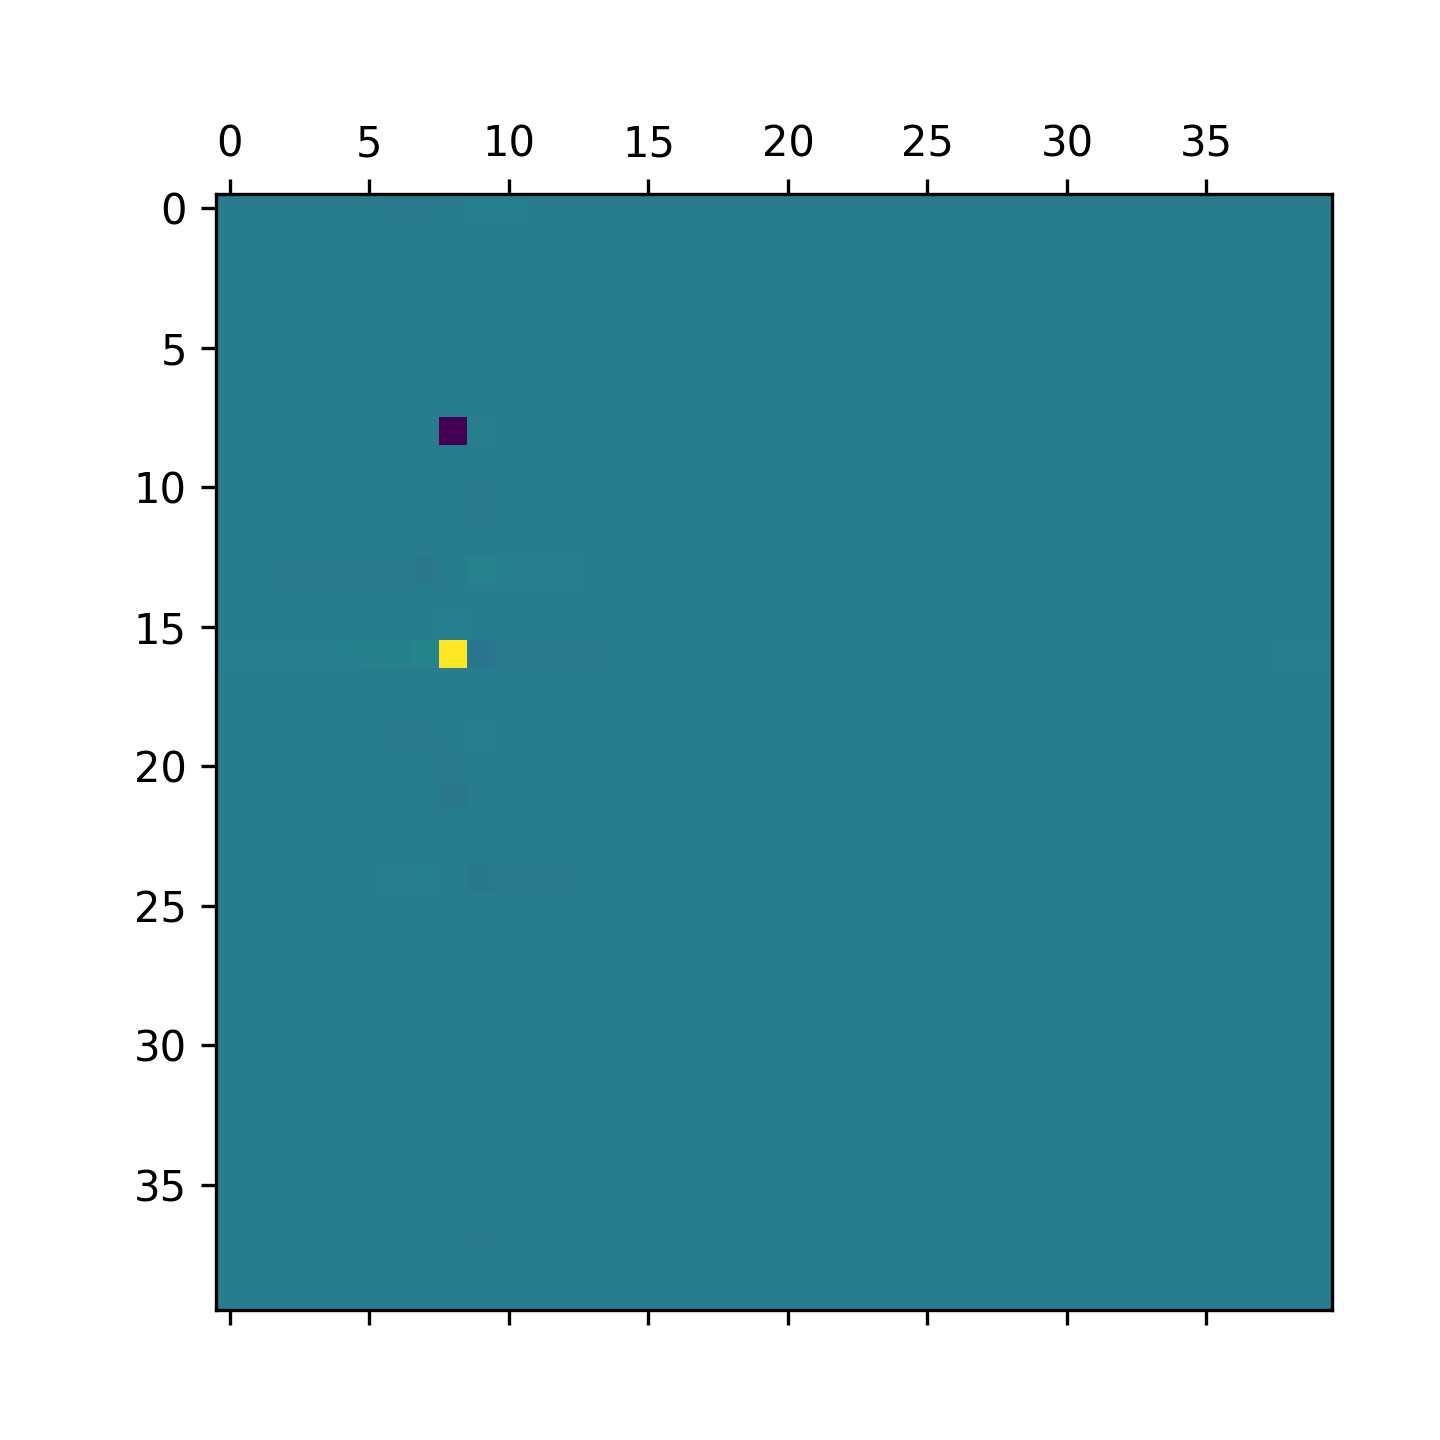
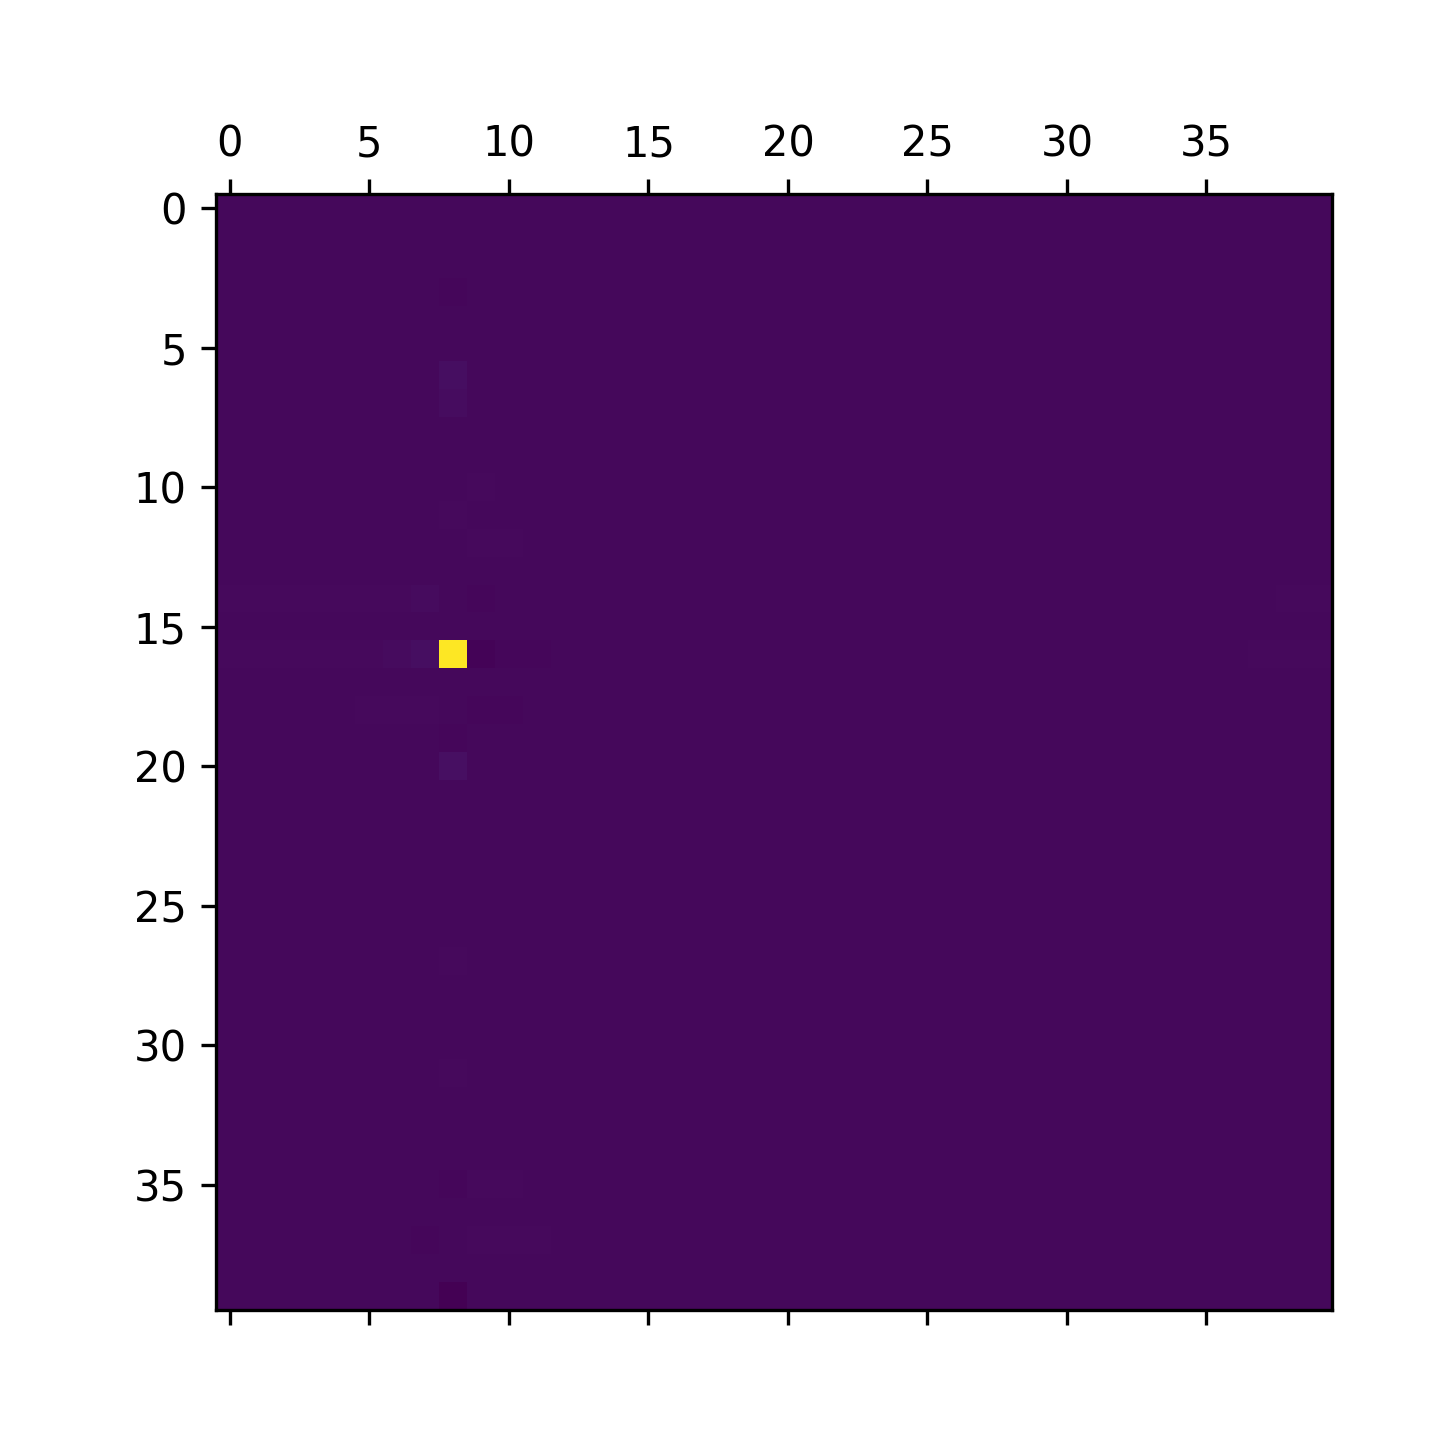
wsio

diff --git a/all_over_again.py b/all_over_again.py
@@ -293,7 +293,7 @@ def cs_reconstruct_2d(sig_sampled,sampling_matricized,delta):
 ### 2D
 
 def non_stationary_frequency(t1,t2,treal):
-    f1, f2 = 0.2+0.05*treal/n, 0.4+0.05*treal/n
+    f1, f2 = 0.2+0.02*treal/n, 0.4+0.02*treal/n
     tau1, tau2 = n/2, n/2
     return np.exp(2j*pi*(f1*t1+f2*t2))#-t1/(tau1)-t2/(tau2))
 
@@ -317,31 +317,31 @@ t_r_length = 5
 
 sampling_ratio = t_r_length/n
 
-for i in [0.1,0.2,0.25,0.33,0.5,0.99]:
-    t_r_schedule = np.random.choice(np.arange(int(n*i)),int(n*i),replace=False)
+# for i in [0.1,0.2,0.25,0.33,0.5,0.99]:
+#     t_r_schedule = np.random.choice(np.arange(int(n*i)),int(n*i),replace=False)
 
-    filter = np.random.choice(np.arange(n),int(n*i),replace=False)
-    mask = np.zeros((n,n))
-    mask[filter] = np.ones(n)
-    sampling_mat = sampling_matrix(vectorization(mask))
+#     filter = np.random.choice(np.arange(n),int(n*i),replace=False)
+#     mask = np.zeros((n,n))
+#     mask[filter] = np.ones(n)
+#     sampling_mat = sampling_matrix(vectorization(mask))
 
-    sig_padded = np.zeros((n,n)).astype(complex)
-    for t2, treal in zip(filter, t_r_schedule):
-        sig_padded[t2,:] = [non_stationary_frequency(t1,t2,treal) for t1 in range(n)]
+#     sig_padded = np.zeros((n,n)).astype(complex)
+#     for t2, treal in zip(filter, t_r_schedule):
+#         sig_padded[t2,:] = [non_stationary_frequency(t1,t2,treal) for t1 in range(n)]
 
-    sig_subsampled = sig_padded[mask.astype(bool)].reshape((filter.size,n))
+#     sig_subsampled = sig_padded[mask.astype(bool)].reshape((filter.size,n))
 
-    sig_padded = Signal(sig_padded)
-    sig_subsampled = Signal(sig_subsampled)
-    # sig_padded.plot()
-    # sig_subsampled.plot()
+#     sig_padded = Signal(sig_padded)
+#     sig_subsampled = Signal(sig_subsampled)
+#     # sig_padded.plot()
+#     # sig_subsampled.plot()
 
-    sig_reconstructed = cs_reconstruct_2d(sig_subsampled,sampling_mat,0.1*i)
-    sig_reconstructed = Signal(np.fft.ifft2(sig_reconstructed.reshape((n,n)).T))
+#     sig_reconstructed = cs_reconstruct_2d(sig_subsampled,sampling_mat,0.1*i)
+#     sig_reconstructed = Signal(np.fft.ifft2(sig_reconstructed.reshape((n,n)).T))
 
-    sig_reconstructed.plot("freq")
-    plt.matshow(sig_reconstructed.freqdom.real)
-    plt.savefig("2d_reconstr_%s.png"%(int(i*100)),dpi=300)
+#     sig_reconstructed.plot("freq")
+#     plt.matshow(sig_reconstructed.freqdom.real)
+#     plt.savefig("2d_reconstr_%s.png"%(int(i*100)),dpi=300)
 
 # n_snapshots = 10
 # t_r_length = 5
@@ -375,6 +375,52 @@ for i in [0.1,0.2,0.25,0.33,0.5,0.99]:
 ###
 ### 2D time-resolved NUS with CS reconstruction
 ###
+
+def non_stationary_frequency(t1,t2,treal):
+    f1, f2 = 0.2+0.015*treal/n, 0.4+0.015*treal/n
+    tau1, tau2 = n/2, n/2
+    return np.exp(2j*pi*(f1*t1+f2*t2))#-t1/(tau1)-t2/(tau2))
+
+def snapshot_2d(n, F, t_real, t_indir):
+    '''n - number of direct time datapoints \n
+    treal - range of real time values \n
+    t_indir - corresponding indirect time values'''
+    form = np.zeros((n,n)).astype(complex)
+    for t2, tr in zip(t_indir, t_real):
+        form[t2,:] = np.array([F(t1,t2,tr) for t1 in range(n)])
+    return form[t_indir]
+
+sampling_ratio = 0.3
+t_r_length = int(sampling_ratio*n)
+
+n_samples = 10
+
+for i in range(n):
+    t_r_schedule = np.random.choice(np.arange(int(t_r_length*i),int(t_r_length*(i+1))),t_r_length,replace=False)
+    filter = np.random.choice(np.arange(n),t_r_length,replace=False)
+    mask = np.zeros((n,n))
+    mask[filter] = np.ones(n)
+    sampling_mat = sampling_matrix(vectorization(mask))
+
+    sig_padded = np.zeros((n,n)).astype(complex)
+    for t2, treal in zip(filter, t_r_schedule):
+        sig_padded[t2,:] = [non_stationary_frequency(t1,t2,treal) for t1 in range(n)]
+
+    sig_subsampled = sig_padded[mask.astype(bool)].reshape((filter.size,n))
+
+    sig_padded = Signal(sig_padded)
+    sig_subsampled = Signal(sig_subsampled)
+    # sig_padded.plot()
+    # sig_subsampled.plot()
+
+    sig_reconstructed = cs_reconstruct_2d(sig_subsampled,sampling_mat,0.6)
+    sig_reconstructed = Signal(np.fft.ifft2(sig_reconstructed.reshape((n,n)).T))
+
+    # sig_reconstructed.plot("freq")
+    plt.matshow(sig_reconstructed.freqdom.real)
+    plt.savefig("2d_TS1_%s.png"%(int(i*100)),dpi=300)
+    plt.close()
+
 
 # def average_over_neighbours(array):
 #     ars = [np.roll(array,t,(0,1)) for t in [(-1,0),(0,-1),(0,0),(0,1),(1,0),(-1,-1),(1,1),(-1,1),(1,-1)]]

diff --git a/mandelbrot.py b/mandelbrot.py
@@ -1,0 +1,43 @@
+import numpy as np
+import matplotlib.pyplot as plt
+
+n = 2000
+iters = 20
+tresh = 50
+
+plane = np.fromfunction(lambda a, b: ((a-n/2)*1j+(b-3*n/2))/n,(n,n))
+values = np.zeros((n,n))
+count = np.zeros((n,n))
+
+for i in range(iters):
+    values = values*values + plane
+    count[abs(values)>tresh] = i
+    values[abs(values)>tresh] = 0j
+
+plt.imshow(count)
+plt.savefig("mandelbrot.png",dpi=500)
+plt.show()
+
+###
+### Julia
+###
+
+n = 2000
+iters = 20
+tresh = 5
+c = 1j
+
+plane = np.fromfunction(lambda a, b: ((a-n/2)*1j+(b-n/2))/(n/4),(n,n))
+values = plane*plane + c
+count = np.zeros((n,n))
+
+for i in range(iters):
+    values = values*values + c
+    # plt.imshow(abs(values))
+    # plt.show()
+    count[abs(values)>tresh] = i
+    values[abs(values)>tresh] = 0j
+
+plt.imshow(count)
+plt.savefig("julia.png",dpi=500)
+plt.show()
